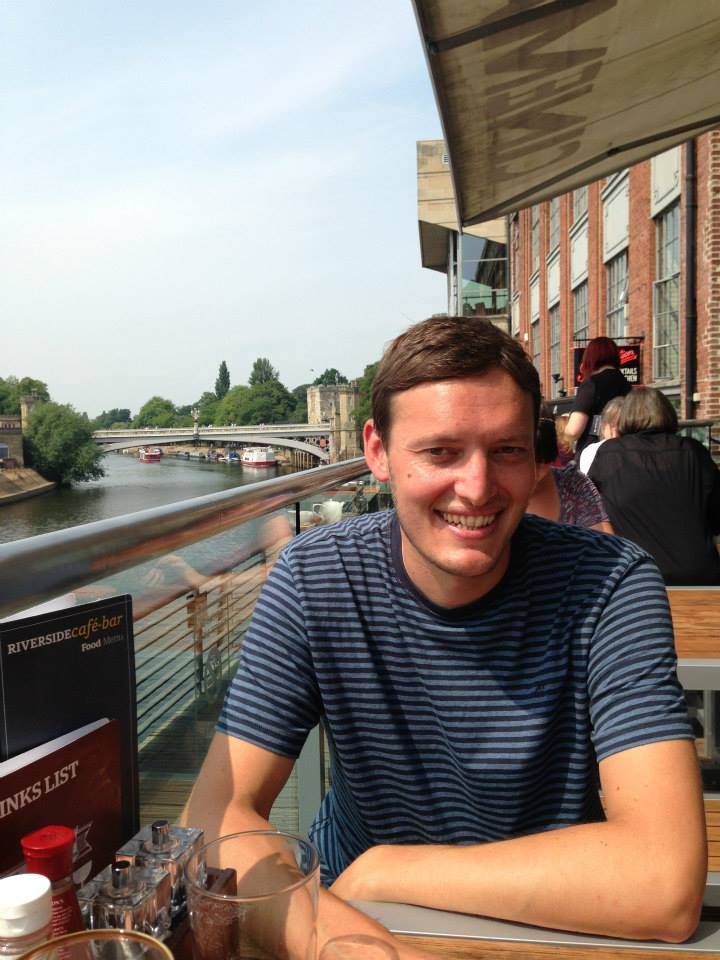
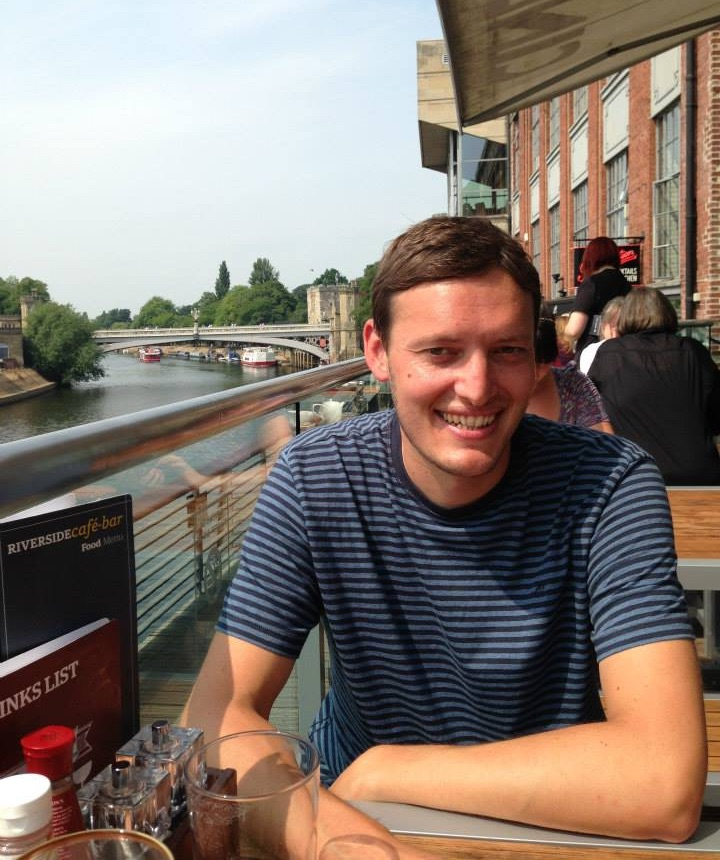
:zap: Mobile styles for about page

diff --git a/src/app.scss b/src/app.scss
@@ -24,7 +24,7 @@ $red: adjust-hue($orange, -30deg);
 $teal: adjust-hue($orange, -270deg);
 $purple: adjust-hue($orange, -60deg);
 
-//$orange: #E0523C; // alternative red
+$red: #E0523C; // alternative red
 $light-blue: #E7F3FF;
 
 body {
@@ -332,5 +332,34 @@ div.work {
     @include vr(
       $padding-left: 0.5
     );
+  }
+
+  @include width-below($phablet) {
+    display: block;
+    figure {
+      padding-right: 0;
+    }
+    aside {
+      padding-left: 0;
+      @include vr(
+        $padding-top: 1
+      );
+    }
+  }
+}
+
+h1.has-icon {
+  display: inline-flex;
+  margin-bottom: 0;
+  svg {
+    align-self: center;
+    @include vr(
+      $height: 1.1,
+      $width: 1.1,
+      $offset-top: 2,
+      $margin-right: 0.25,
+      $margin-left: 0.3
+    );
+    fill: $red;
   }
 }

diff --git a/src/containers/About.js b/src/containers/About.js
@@ -1,14 +1,19 @@
 import React from 'react'
 import { withRouteData, Link } from 'react-static'
 import convert from 'htmr'
-
-import steve from '../images/steve2.jpg'
+import steve from '../images/steve.jpg'
+import steveLandscape from '../images/steve-landscape.jpg'
 
 export default withRouteData(({ about }) => (
   <section className="">
     <div className="grid-wrapper about">
       <figure className="about__image">
-        <img src={ steve } />
+        <picture>
+          <source media="(min-width: 34em)" srcset={steve} />
+          <source media="(min-width: 0px)" srcset={steveLandscape} />
+          <img src={steve} alt="Steve Urmston - Digital Product Designer" />
+        </picture>
+
       </figure>
       <aside>
         {convert(about.contents)}

diff --git a/src/containers/404.js b/src/containers/404.js
@@ -2,7 +2,9 @@ import React from 'react'
 //
 
 export default () => (
-  <div>
-    <h1>404 - Oh no's! We couldn't find that page :(</h1>
-  </div>
+  <section>
+    <div className="grid-wrapper">
+      <h1>404 - Oh no's! We couldn't find that page :(</h1>
+    </div>
+  </section>
 )

diff --git a/content/about.md b/content/about.md
@@ -1,7 +1,7 @@
-# I Heart Product
+# I Love Product
 
 * 13 years experience across design, UX, full-stack software development and product management
 * Masters degree in Human Computer Interaction.
-* Expert in front-end development using JavaScript and web technologies.
+* Expert in front-end development using JavaScript, HTML & CSS
 * Speciality in UI and Interaction design
 * Leadership and Management for Product teams
